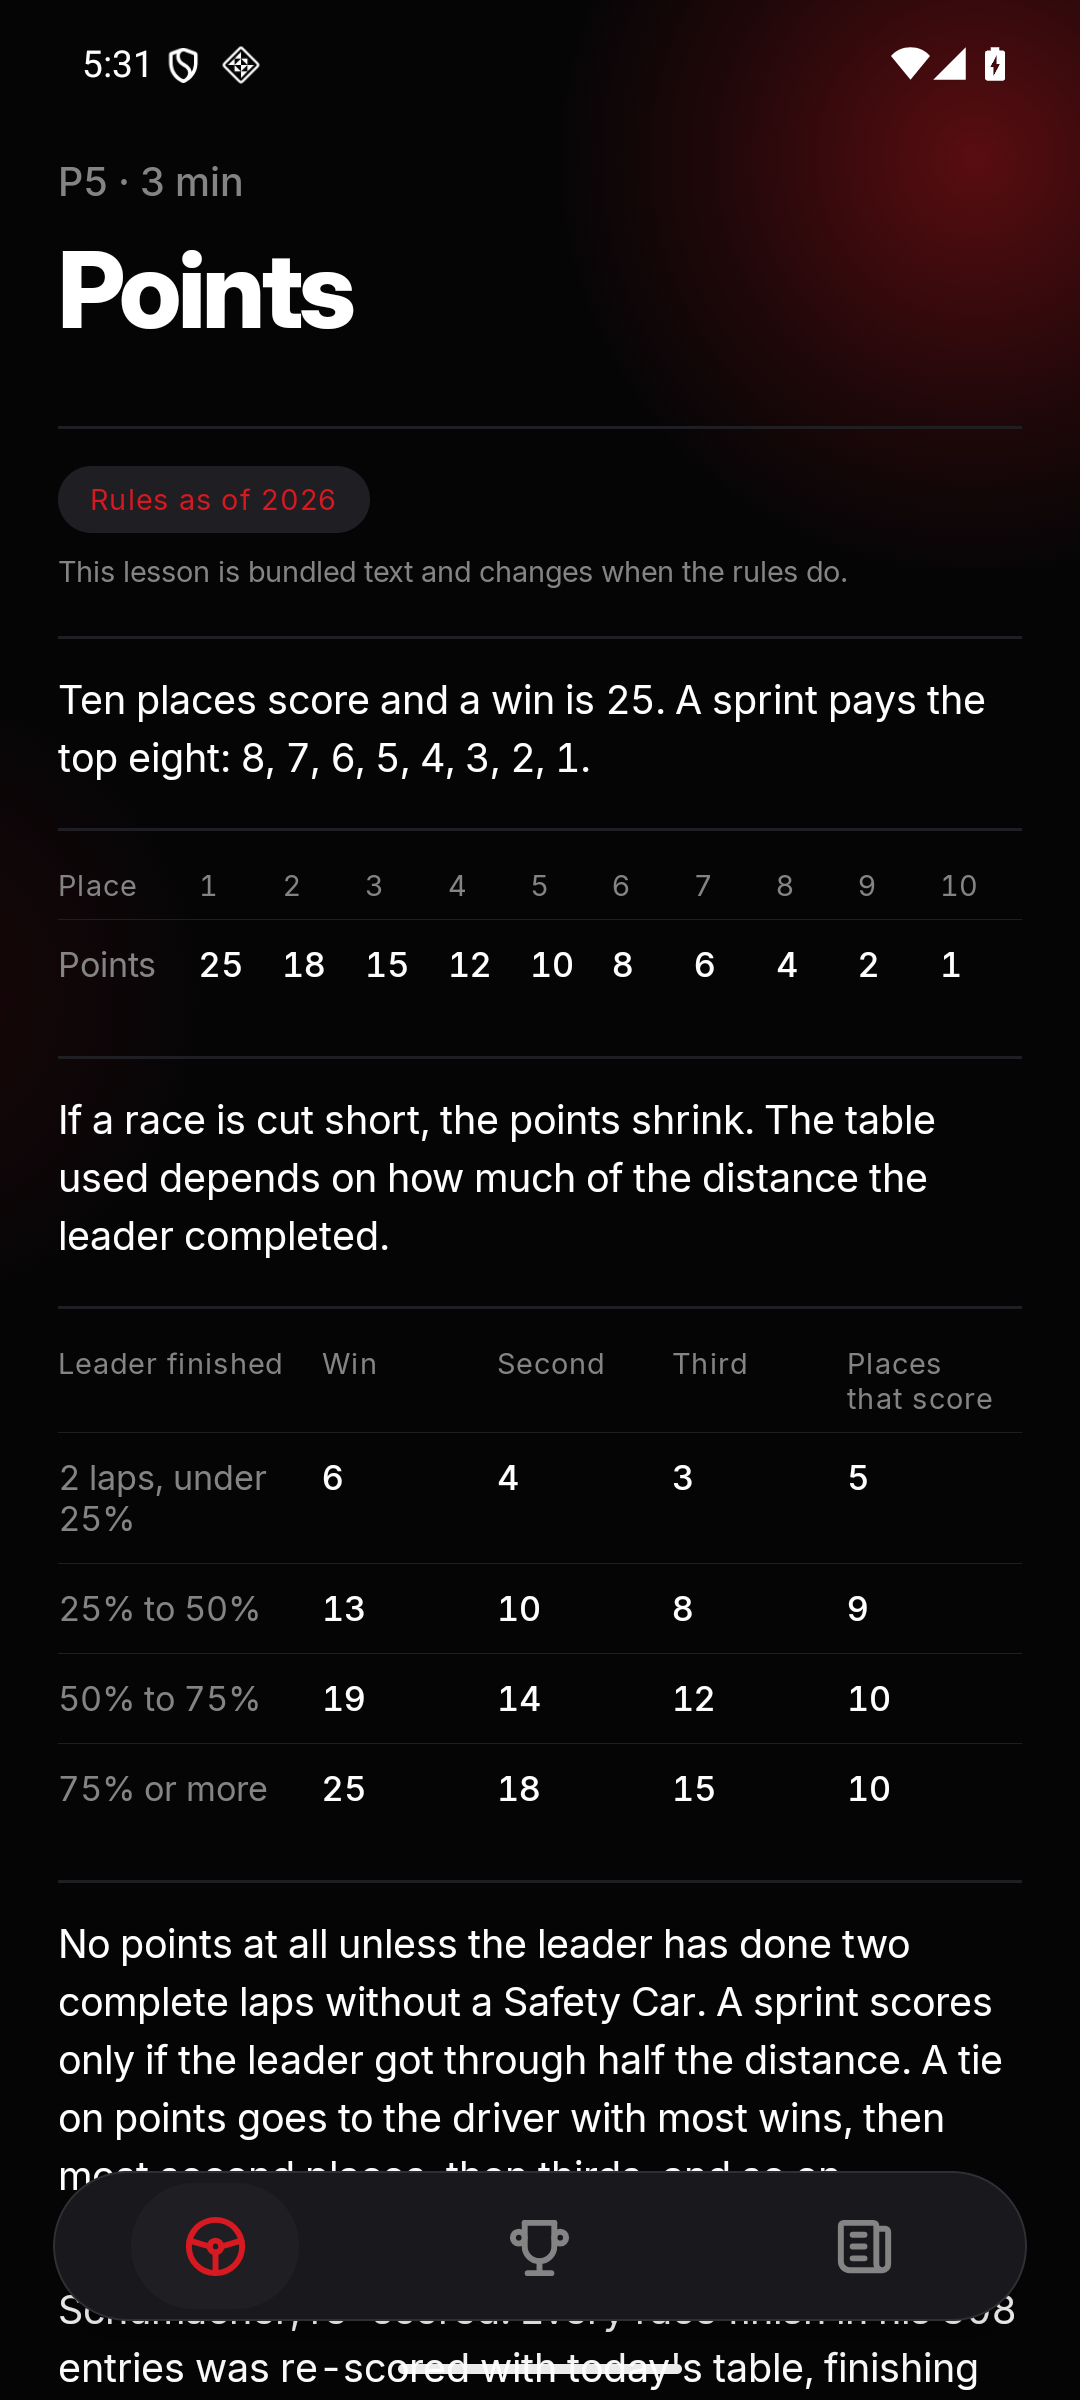
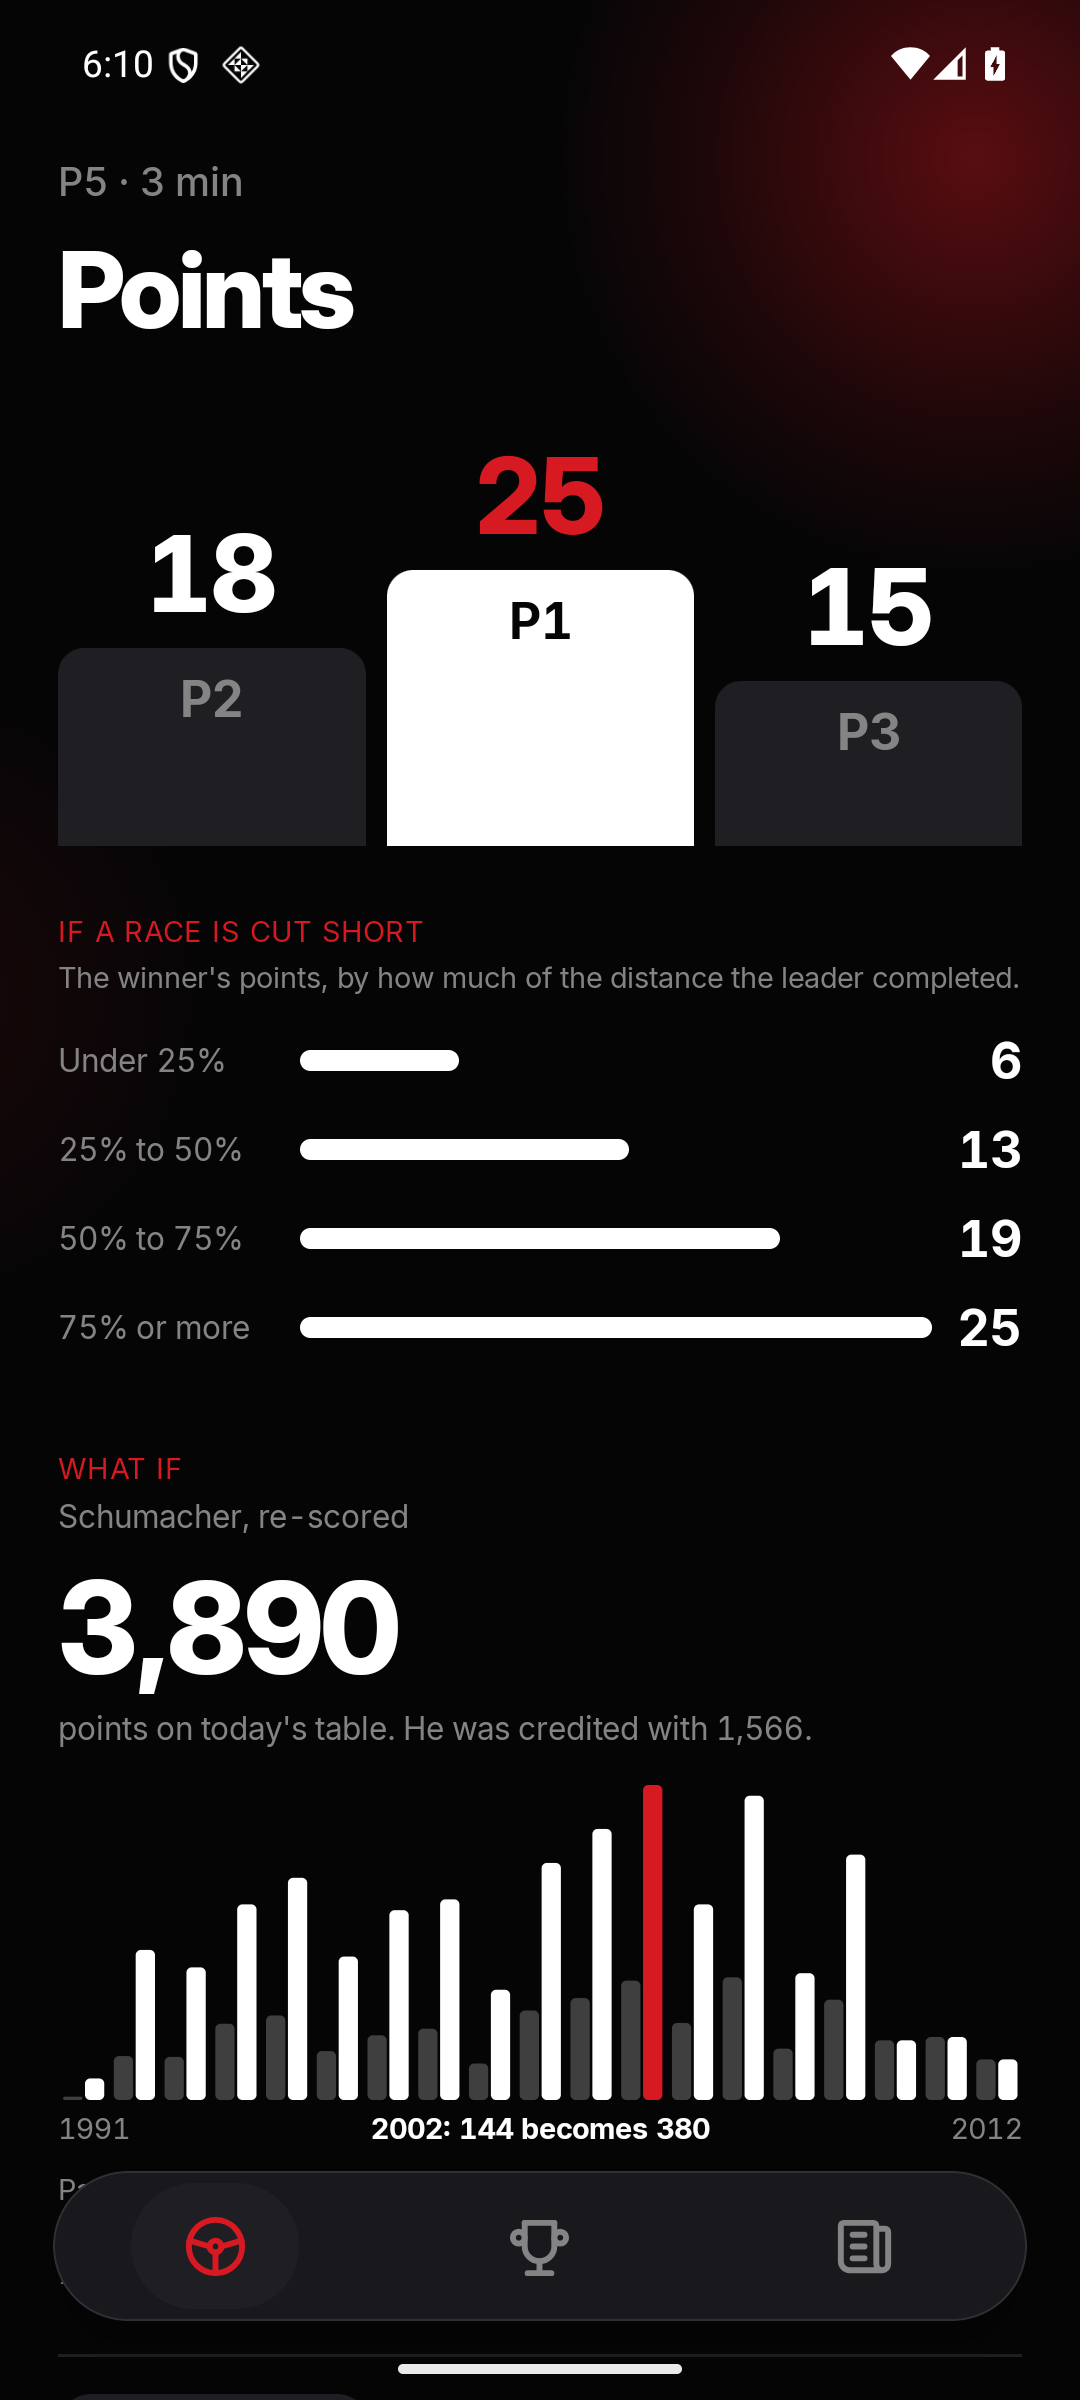
chore(release): prepare v1.5.0 with Learn F1
Changelog, README line, SECURITY note, both screenshot sets with every Learn screen, version 1.5.0 (code 10). Not tagged or published.

diff --git a/screenshots/README.md b/screenshots/README.md
@@ -27,7 +27,13 @@ Same filenames in each:
 | `13-circuit.png` | Circuit page: Spa with Eau Rouge, facts and past winners |
 | `18-home-footer.png` | Home scrolled to the bottom: the support note (direct build only) and the unofficial line |
 | `19-learn-index.png` | Learn F1: the lessons as a staggered starting grid, with a fun fact of the day |
-| `20-learn-points.png` | Learn F1 lesson page template (Points): season stamp, text and tables on hairlines |
+| `20-learn-points.png` | Learn F1, Points: podium, cut-short bars and Schumacher re-scored on today's table |
+| `21-learn-qualifying.png` | Learn F1, Qualifying: the 22-car grid with Q1, Q2, Q3 and the 107 percent rule |
+| `22-learn-flags.png` | Learn F1, Flags: one waving flag you swipe through, with the full rack below |
+| `23-learn-tyres.png` | Learn F1, Tyres: the compounds on a speed against life axis |
+| `24-learn-penalties.png` | Learn F1, Penalties: six moments along a racing line, tap a corner to read it |
+| `25-learn-licence.png` | Learn F1, Race bans and your licence: the 12-point Super Licence and three bans |
+| `26-learn-hall-of-shame.png` | Learn F1, Hall of shame: the 80-place record and the grid it produced |
 | `17-season-sheet.png` | Championship: the season picker as a bottom sheet |
 | `16-news-reddit.png` | News: the Reddit tab with the subreddit picker |
 | `14-driver-depth.png` | Driver page, lower half: career, teammate head-to-head, recent results, seasons |

diff --git a/CHANGELOG.md b/CHANGELOG.md
@@ -4,6 +4,13 @@ All notable changes to Delta are listed here. The format follows
 [Keep a Changelog](https://keepachangelog.com/en/1.1.0/) and versions follow
 [Semantic Versioning](https://semver.org/).
 
+## [1.5.0] - Unreleased
+
+### Added
+- Learn F1, opened from a row on Home: 14 short lessons for someone new to the sport, from a race weekend to flags, tyres, points, penalties and Super Licence bans. Each has a diagram you can touch (a 22-car grid, a waving flag, a tyre axis, a racing line of penalties) and a few fun facts, and the index shows a fact of the day.
+- Schumacher re-scored: his 19 seasons on today's 25-18-15 table, 3,890 points against the 1,566 he was credited with. A thought experiment on finishing positions only.
+- The lessons are bundled text, so they work offline and add no network request. Each says which rules year it describes, and figures that come from secondary sources name them.
+
 ## [1.4.0] - 2026-11-15
 
 ### Added
@@ -81,6 +88,7 @@ All notable changes to Delta are listed here. The format follows
 
 First signed release: the F1 tab.
 
+[1.5.0]: https://github.com/pokhriyal-anmol/delta/compare/v1.4.0...v1.5.0
 [1.4.0]: https://github.com/pokhriyal-anmol/delta/compare/v1.3.2...v1.4.0
 [1.3.2]: https://github.com/pokhriyal-anmol/delta/compare/v1.3.1...v1.3.2
 [1.3.1]: https://github.com/pokhriyal-anmol/delta/compare/v1.3.0...v1.3.1

diff --git a/README.md b/README.md
@@ -41,7 +41,7 @@ No ads, no account, no server.
   <img src="screenshots/light/13-circuit.png" width="32%" alt="Circuit page in the light theme">
 </p>
 
-Delta follows the phone's theme. All 36 screenshots are in [`screenshots/`](screenshots/README.md).
+Delta follows the phone's theme. All 52 screenshots are in [`screenshots/`](screenshots/README.md).
 
 </details>
 
@@ -50,6 +50,7 @@ Delta follows the phone's theme. All 36 screenshots are in [`screenshots/`](scre
 - Nothing to sign in to, no ads and no tracking SDKs. Delta has no server of its own.
 - It does nothing when it is closed: no polling, no background jobs, no foreground service.
 - History goes back to 1950, and every past season shows its champion.
+- A Learn F1 section explains the rules to a new fan in 14 short lessons, offline, with diagrams you can touch.
 - It keeps working from a local cache when the network drops, and says so.
 - The code is open under AGPL-3.0.
 

diff --git a/SECURITY.md b/SECURITY.md
@@ -64,6 +64,12 @@ is treated as untrusted.
   reach the request URL. A post link is kept only if its host is `reddit.com` or `redd.it`. No
   Reddit account, token or API key is used or stored.
 
+## Learn F1 adds no input
+
+The Learn section is text and drawings compiled into the app. It makes no request, parses nothing
+from outside, opens no link and stores nothing. Its one date-dependent piece, the fact of the day,
+is chosen from the phone's clock. Nothing in it changes the threat model below.
+
 ## Threat model, ranked
 
 1. Installing a malicious APK. This is by far the likeliest way a phone is compromised, and
